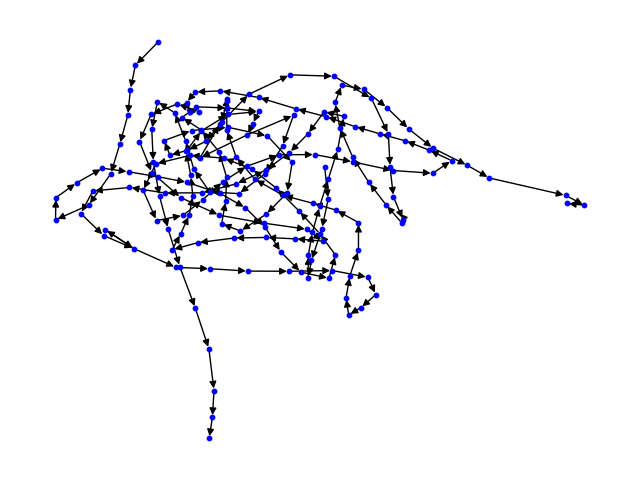
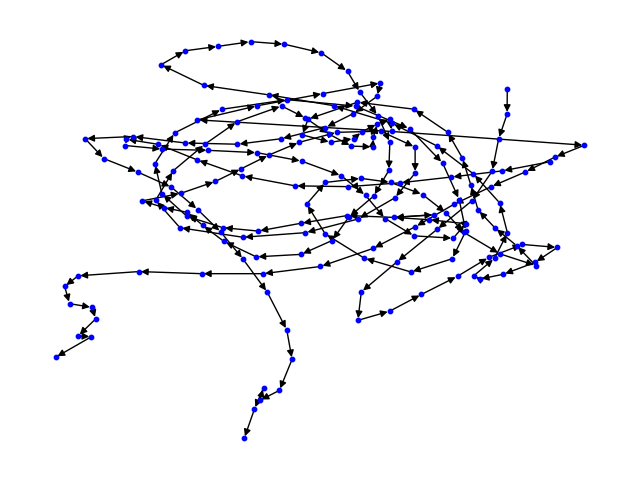
remove path

diff --git a/debruijn/debruijn.py b/debruijn/debruijn.py
@@ -40,9 +40,7 @@ def isfile(path): # pragma: no cover
     """Check if path is an existing file.
 
     :param path: (str) Path to the file
-    
     :raises ArgumentTypeError: If file doesn't exist
-    
     :return: (str) Path 
     """
     if not os.path.isfile(path):
@@ -155,8 +153,18 @@ def remove_paths(graph, path_list, delete_entry_node, delete_sink_node):
     :param delete_sink_node: (boolean) True->We remove the last node of a path
     :return: (nx.DiGraph) A directed graph object
     """
-    pass
-
+    for path in path_list :
+        if not path :
+            continue
+        if delete_entry_node and delete_sink_node :
+            graph.remove_nodes_from(path)
+        elif delete_entry_node : 
+            graph.remove_nodes_from(path[:-1])
+        elif delete_sink_node :
+            graph.remove_nodes_from(path[1:])          
+        else :
+            graph.remove_nodes_from(path[1:-1])
+    return graph
 
 def select_best_path(graph, path_list, path_length, weight_avg_list, 
                     delete_entry_node=False, delete_sink_node=False):
@@ -309,7 +317,6 @@ def main(): # pragma: no cover
     """
     # Get arguments
     args = get_arguments()
-
     # Fonctions de dessin du graphe
     # A decommenter si vous souhaitez visualiser un petit 
     # graphe
@@ -317,11 +324,8 @@ def main(): # pragma: no cover
     # if args.graphimg_file:
     #     draw_graph(graph, args.graphimg_file)
     #Partie a
-    
     #fastQ
-
     reads = read_fastq(args.fastq_file)
-    
     #Kmers
     kmer_size = 7  
     for read in reads:
@@ -329,7 +333,6 @@ def main(): # pragma: no cover
         #lecture et ses k-mères
         print("Lecture : ", read)
         print("K-mères : ", kmers)
-    
     #Kmer_dict
     kmer_dict = build_kmer_dict(args.fastq_file, kmer_size)
     print("\nDictionnaire des k-mères et de leurs occurrences :")
@@ -340,19 +343,16 @@ def main(): # pragma: no cover
     
     #Partie b
     digraph = build_graph(kmer_dict)
-
     # Identification des nœuds d'entrée et de sortie
     entrance_nodes = get_starting_nodes(digraph)
     print("entrance_nodes : ", entrance_nodes)
     output_nodes = get_sink_nodes(digraph)
     print("output_nodes : ", output_nodes)
-
     # Extraction des contigs
     contigs = get_contigs(digraph, entrance_nodes, output_nodes)
     for contig, length in contigs:
         print(f"Contig : {contig}, Longueur : {length}")
     save_contigs(contigs, "contigs.fasta")
-
     # Dessiner le graphe
     pos = nx.spring_layout(digraph)
     nx.draw(digraph, pos, with_labels=False, node_size=10, node_color='b', font_size=8)
